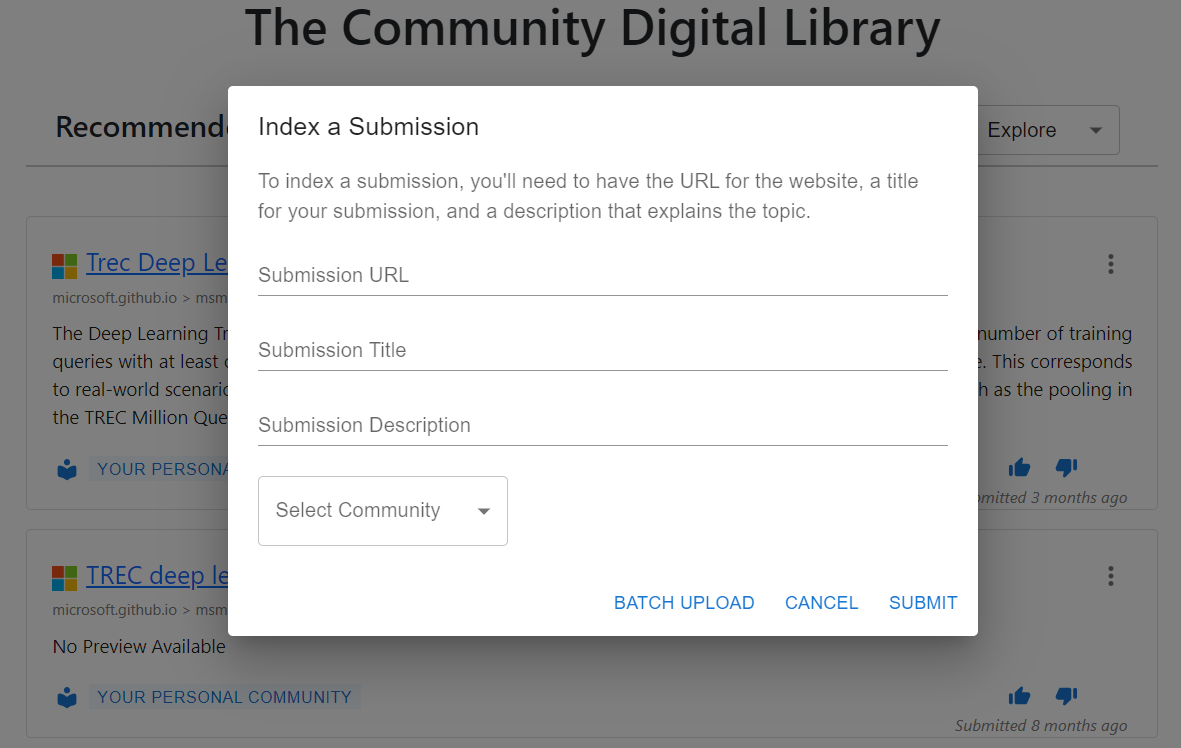
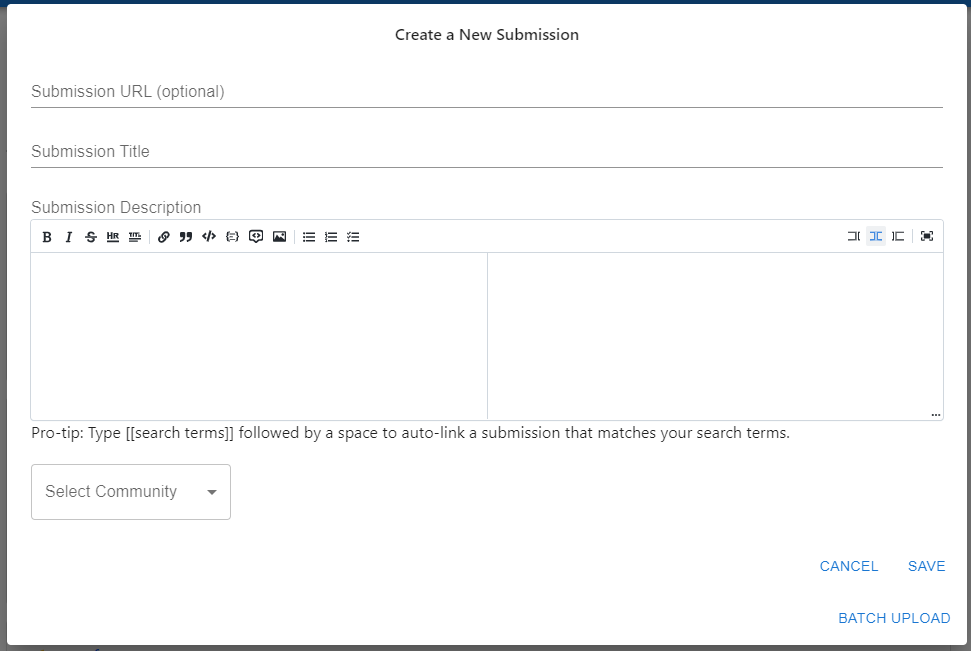
docs updates

diff --git a/frontend/website/components/data/landingpage.js b/frontend/website/components/data/landingpage.js
@@ -13,15 +13,18 @@ import SearchIcon from '@mui/icons-material/Search';
 import FeedIcon from '@mui/icons-material/Feed';
 import ChangeCircleIcon from '@mui/icons-material/ChangeCircle';
 
+import ReplyIcon from '@mui/icons-material/Reply';
+import TimelineIcon from '@mui/icons-material/Timeline';
 
-import noteImg from "../../public/images/notes.png";
+
+import submissionImg from "../../public/images/submission_page.png";
 import searchRecImg from "../../public/images/search_rec.png";
 
 const benefitOne = {
   title: "Form Communities",
-  desc: "A community is where bookmarks are saved. A community consists of any number of CDL users, all generally interested in a similar topic.",
+  desc: "A community is where submissions are saved. A community consists of any number of CDL users, all generally interested in a similar topic.",
   image: communityImg,
-  link: "how-to-community",
+  link: "community-overview",
   bullets: [
     {
       title: "Create a Community",
@@ -30,85 +33,85 @@ const benefitOne = {
     },
     {
       title: "Join a Community",
-      desc: "You can join a community by copy-pasting the community join key (accessible from clicking the 'Key' icon!)",
+      desc: "You can join a community by copy-pasting the community join key (accessible from clicking the 'Key' icon!).",
       icon: <ArrowForwardIcon />,
     },
     {
       title: "Explore with Other Members",
-      desc: "All webpages bookmarked to a community are accessible by any member of the community",
+      desc: "All submissions to a community are accessible by any member of the community.",
       icon: <PeopleIcon />,
     },
   ],
 };
 
 const benefitTwo = {
-  title: "Bookmark Webpages",
-  desc: "Describe and save webpages to any of your joined communities.",
+  title: "Make Submissions",
+  desc: "Create markdown-style notes and submit them to any of your communities",
   image: submitImg,
   link: "how-to-bookmark",
   bullets: [
     {
-      title: "Describe the Webpage",
-      desc: "Give the webpage a title and a description for helping you or your community members easily search for the bookmark.",
+      title: "Optionally Add a Webpage",
+      desc: "Adding a Submission URL will link your notes to an external webpage.",
       icon: <CreateIcon />,
     },
     {
-      title: "Save the Webpage to a Community",
-      desc: "Select a community to save your bookmark. All members of the community will now be able to search for and access the bookmark.",
+      title: "Add a Title and Description",
+      desc: "The title should briefly describe the note's purpose, and the description can be whatever you like.",
       icon: <SaveIcon />,
     },
     {
-      title: "Bookmark from Anywhere",
-      desc: "You can create a bookmark from the website and the Chrome browser extension.",
+      title: "Submit from Anywhere",
+      desc: "You can create submission from the website and from the Chrome browser extension.",
       icon: <CollectionsBookmarkIcon />,
     },
   ],
 };
 
-const benefitThree = {
-  title: "Take Notes",
-  desc: "Take markdown-style hierarchical, private notes.",
-  image: noteImg,
-  link: "how-to-bookmark",
+const benefitFour = {
+  title: "Interact with Submissions",
+  desc: "Visit a submission's CDL-specific webpage to read, reply, visualize, share.",
+  image: submissionImg,
+  link: "submission-overview",
 
   bullets: [
     {
-      title: "Create a Note Page",
-      desc: "Create a note page on any topic",
+      title: "Edit, Delete, Share",
+      desc: "You can edit a submission, add or remove it from a community, delete it entirely, or provide feedback.",
       icon: <CreateIcon />,
     },
     {
-      title: "Save the Note Page",
-      desc: "Save the note page to your private collection.",
-      icon: <SaveIcon />,
+      title: "Reply",
+      desc: "Replying to a submission will create another submission and display it beneath the description. This way, any future user who visits this submission will see your reply",
+      icon: <ReplyIcon />,
     },
     {
-      title: "Live Edit Previews",
-      desc: "While editing, see the changes to your page in real-time.",
-      icon: <ChangeCircleIcon />,
+      title: "Visualize",
+      desc: "See how similar submissions are related by interacting with the graph.",
+      icon: <TimelineIcon />,
     },
   ],
 };
 
-const benefitFour = {
+const benefitThree = {
   title: "Discover Information",
   desc: "Search and view recommendations from the content submitted to your communities.",
   image: searchRecImg,
-  link: "how-to-discover",
+  link: "search-overview",
   bullets: [
     {
       title: "Search Your Communities",
-      desc: "The webpages submitted to your communities are searchable using the website or the extension.",
+      desc: "The submissions to your joined communities are searchable using the website or the extension.",
       icon: <SearchIcon />,
     },
     {
-      title: "Get General Recommendations",
-      desc: "View your recommendation feed on the homepage or open the extension on a webpage to see contextual recommendations. Open the extension with highlighted text to see more specific contextual suggestions.",
+      title: "Get Recommendations",
+      desc: "View your recommendation feed on the homepage or open the extension on a webpage to see contextual recommendations. Open the extension with highlighted text to see submissions tailored to your selected context.",
       icon: <FeedIcon />,
     },
     {
-      title: "Get Note-based Recommendations",
-      desc: "See recommendations from your communities while you edit your notes pages in real time.",
+      title: "Automatic Suggestions",
+      desc: "See recommendations for your queries and while typing submission descriptions in real time.",
       icon: <ChangeCircleIcon />,
     },
   ],

diff --git a/frontend/website/components/homepage/hero.js b/frontend/website/components/homepage/hero.js
@@ -27,8 +27,7 @@ const Hero = () => {
               The Community Digital Library
             </h1>
             <p className="py-5 text-xl leading-normal text-gray-500 lg:text-xl xl:text-xl dark:text-gray-300">
-            The Community Digital Library (CDL) is an online and open-source social bookmarking platform that allows you to collaboratively describe and save, search for, and discover webpages related to your interests. We offer a stand-alone website and a Chrome extension, all for free.
-
+            The Community Digital Library (CDL) is an online and open-source collaborative knowledge management platform. You can take markdown-style notes, connect them together, visualize them, share them across communities, and search or discover submitted and indexed content related to your interests. We offer a website and a Chrome extension, all for free.
             </p>
 
             <div className="flex flex-col m-3 items-start space-y-3 sm:space-x-4 sm:space-y-0 sm:items-center sm:flex-row">

diff --git a/frontend/website/pages/about.js b/frontend/website/pages/about.js
@@ -34,7 +34,7 @@ export default function About({ loggedOut }) {
         <SectionTitle
           pretitle="Why CDL?"
           title=" What we offer">
-          Below, we describe an overview of the CDL's features: forming communities, bookmarking webpages to these communities, taking notes, and discovering information (search and recommendation).
+          Below, we describe an overview of the CDL's features: forming communities, taking notes, and discovering information.
         </SectionTitle>
 
         <Benefits data={benefitOne} />

diff --git a/frontend/website/components/homepage/benefits.js b/frontend/website/components/homepage/benefits.js
@@ -32,7 +32,7 @@ const Benefits = (props) => {
 
               <p className="max-w-2xl py-4 text-lg leading-normal text-gray-500 lg:text-xl xl:text-xl dark:text-gray-300">
                 {data.desc + " "}
-                <a href={`/documentation/#${data.link}`}>Learn how </a>
+                <a href={`/documentation/#${data.link}`}>Learn more. </a>
               </p>
 
             </div>
